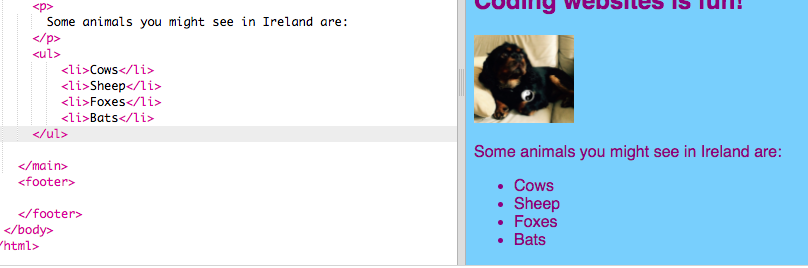
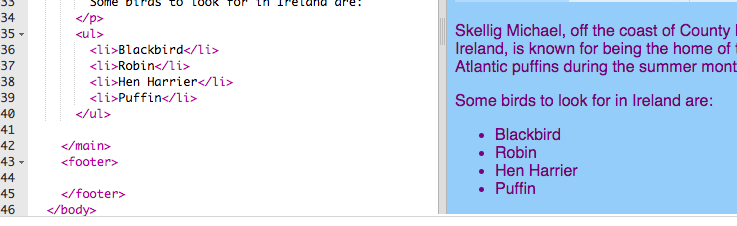
update for se project

diff --git a/en/step_6.md b/en/step_6.md
@@ -5,16 +5,16 @@ Let's add a picture!
 - Go to the tab named `index.html`. Find the `</main>` tag and type the following above it: 
 
 ```html
-    <img src="tito.png" alt="Tito the dog" width="100px" />
+    <img src="RunBird.jpg" alt="A funny looking bird" width="300px" />
 ```
 
 Here's what the result should look like:
     
-![Image code and picture of Tito](images/egImgCodeTito.png)
+![Image code and picture of a bird](images/egImgCode.png)
 
 Notice that this tag has extra bits of information inside it. They are called **attributes**.
 
-- Find the bit of code that says `width="100px"` and try experimenting with different numbers to see if you can figure out what this **attribute** does. Don't delete the letters `px`!
+- Find the bit of code that says `width="300px"` and try experimenting with different numbers to see if you can figure out what this **attribute** does. Don't delete the letters `px`!
 
 --- collapse ---
 
@@ -45,7 +45,7 @@ Once you have a picture, you will **upload** the file to Trinket:
 
 ![The image icon](images/tktImageIconArrow.png)
 
-This is where you can see the pictures that can be used on your website. You should see the picture of Tito the CoderDojo dog.
+This is where you can see the pictures that can be used on your website. You should see the picture of the bird.
 
 - Click the button **Add Image** and then click **Upload**. 
 
@@ -57,7 +57,7 @@ This is where you can see the pictures that can be used on your website. You sho
 
 Your picture is uploaded and ready to use!
 
-- Go to the file index.html and find the `<img>` tag. Change the text `tito.png` so that it exactly matches the name of the file with your picture. Note that it might end in `.jpg` instead of `.png`!
+- Go to the file index.html and find the `<img>` tag. Change the text `RunBird.jpg` so that it exactly matches the name of the file with your picture. Note that it might end in `.png` or something else instead of `.jpg`!
 
 The text you just changed is the **attribute** called `src`. It tells the browser what file to display.
 

diff --git a/en/step_10.md b/en/step_10.md
@@ -18,15 +18,15 @@ You might be wondering why you can't change the name of the `index.html` file. `
 
 --- /collapse ---
 
-- Find the file `blank_page.html` and **copy** and **paste** all of the code from it into your new file.
+- Find the file `template.html` and **copy** and **paste** all of the code from it into your new file.
 
 --- collapse ---
 ---
 title: How to copy and paste
 ---
-- Go the the file blank\_page.html in the code panel \(by clicking on the tab with that name\). Select all of the text in the file by doing the following: Click anywhere on the code, then press and hold the `Ctrl` key \(or if you are using a Mac, the `cmd` key\) and while holding it, press the `A` key at the same time. Notice how all the text becomes highlighted.
+- Go the the file `template.html` in the code panel \(by clicking on the tab with that name\). Select all of the text in the file by doing the following: Click anywhere on the code, then press and hold the `Ctrl` key \(or if you are using a Mac, the `cmd` key\) and while holding it, press the `A` key at the same time. Notice how all the text becomes highlighted.
 
-![All the code selected in the blank_page.html file](images/egBlankPageSelectAll.png)
+![All the code selected in the template.html file](images/egBlankPageSelectAll.png)
 
 - Now, with the text selected, press and hold the `Ctrl` \(or `cmd`\) key again and then while holding it press the `C` key. This **copies** everything that was selected.
 
@@ -55,9 +55,9 @@ Now you need to make links so that you can get to each of your new pages! Let's 
 ```html
     <ul>
         <li><a href="index.html">Home</a></li>
-        <li><a href="attractions.html">Places to visit</a></li>
-        <li><a href="music.html">Music</a></li>
-        <li><a href="food.html">Things to eat</a></li>
+        <li><a href="species.html">Birds to Watch</a></li>
+        <li><a href="feeding.html">Feeding Birds</a></li>
+        <li><a href="tips.html">Birdwatching Tips</a></li>
     </ul>
 ```
 

diff --git a/en/step_4.md b/en/step_4.md
@@ -2,14 +2,14 @@
 
 - In the left-hand panel, the **code panel**, click on the tab that says `index.html`.
 
-- Find the line that says `Welcome to Ireland!` and change it to your own message, being careful not to delete the text `<p>` at the start of the line and `</p>` at the end of the line. You should see your web page updated in the right-hand panel. 
+- Find the line that says `Hello, Friend` and change it to your own message, being careful not to delete the text `<p>` at the start of the line and `</p>` at the end of the line. You should see your web page updated in the right-hand panel. 
 
 ![HTML paragraph example](images/egFirstHtmlCode.png)
 
 - Now on the same line, change the `<p>` and `</p>` to `<h1>` and `</h1>`. Do you notice any change in the result on the right?
 
 ```html
-  <h1>Welcome to Ireland!</h1>
+  <h1>Hello, Friend!</h1>
 ```
 
 --- collapse ---
@@ -33,12 +33,11 @@ Everything in between the `<body>` and `</body>` tags is your web page.
 - Try changing the numbers in your **heading** tags to see the different sizes you get. They can go from `<h1>` all the way up to `<h6>`. Remember to change both the **opening** and **closing** tag so that they match.
 
 
-- Lastly, find the code for the paragraph that says `My website is about Ireland` and change it so that it looks like this:
+- Lastly, find the code for the paragraph that says `Welcome to my website about birds.` and change it so that it looks like this:
 
 ```html
   <p>
-    <em>My website</em> is about <strong>Ireland</strong>. 
-    It is going to have the following pages: Attractions, Music, Food
+    Welcome to <em>my website</em> about <strong>birds</strong>.
   </p>
 ```
 

diff --git a/en/step_12.md b/en/step_12.md
@@ -51,16 +51,16 @@ How about making the menu change to to tell you which page you are on? This part
 
 - Start with the homepage. Go to the `index.html` file. In the list, remove the link tags before and after the word `Home`, so that the **list item** for the homepage is just text in between `<li> </li>` tags, like this: `<li>Home</li>`.
 
-- Now go to each of your other files, and do the same thing, each time removing the link tags for the page you are editing. So, for example, on the `music.html` file, I've removed the link tags in the `Music` list item, and so on.
+- Now go to each of your other files, and do the same thing, each time removing the link tags for the page you are editing. So, for example, on the `species.html` file, I've removed the link tags in the `Birds to Watch` list item, and so on.
 
 ```html
     <header>
         <nav>
             <ul>
-            <li><a href="index.html">Home</a></li>
-            <li><a href="attractions.html">Attractions</a></li>
-            <li>Music</li>
-            <li><a href="food.html">Food</a></li>
+                <li><a href="index.html">Home</a></li>
+                <li>Birds to Watch</li>
+                <li><a href="feeding.html">Feeding Birds</a></li>
+                <li><a href="tips.html">Birdwatching Tips</a></li>
             </ul>
         </nav>
     </header>

diff --git a/en/step_9.md b/en/step_9.md
@@ -22,7 +22,7 @@ The `<a> </a>` tag turns something into a link.
 - In your Trinket, click in between the quotation marks after `href=` and press the `Ctrl` \(or `cmd`\) and `V` keys together to **paste** in the URL you just copied. Your code should look something like this now:
 
 ```html
-  <a href="https://en.wikipedia.org/wiki/Ireland">Click here</a>
+  <a href="https://en.wikipedia.org/wiki/Birdwatching">Click here</a>
 ```
 
 You just created your first link! Click on it to see if it works now.
@@ -40,8 +40,8 @@ Trinket has trouble with some links. You can try URLs for other websites than Wi
 - Try putting a picture in between the `<a> </a>` tags instead of the words `Click here`, like this:
 
 ```html
-  <a href="https://en.wikipedia.org/wiki/Ireland">
-      <img src="tito.png" alt="Tito the dog" width="100px" />
+  <a href="https://en.wikipedia.org/wiki/Birdwatching">
+    <img src="RunBird.jpg" alt="A funny looking bird" width="300px" />
   </a>
 ```
 
@@ -51,7 +51,7 @@ You can put a link into other elements of your web page too, such as in a paragr
 
 ```html
   <p>
-    <a href="https://en.wikipedia.org/wiki/Ireland">Click here</a> to read the Wikipedia page!
+    <a href="https://en.wikipedia.org/wiki/Birdwatching">Click here</a> to read what Wikipedia has to say about birdwatching!
   </p>
 ```
 

diff --git a/en/step_8.md b/en/step_8.md
@@ -6,10 +6,10 @@ On this card you will learn how to turn a list of items, such as "unicorns, robo
 
 ```html
     <ul>
-        <li>Cows</li>
-        <li>Sheep</li>
-        <li>Foxes</li>
-        <li>Bats</li>
+        <li>Blackbird</li>
+        <li>Robin</li>
+        <li>Hen Harrier</li>
+        <li>Puffin</li>
     </ul>
 ```
 
@@ -27,12 +27,12 @@ How about if you wanted a numbered list? It's almost the same, but instead of `u
 
 ```html
     <p>
-        My favourite things to eat and drink in Ireland are:
+        Some of the robin's favourite things to eat are:
     </p>
     <ol>
-        <li>Tea</li>
-        <li>Crisp sandwiches</li>
-        <li>Sausages</li>
+        <li>Beetles</li>
+        <li>Worms</li>
+        <li>Fruit</li>
     </ol>
 ```
 

diff --git a/en/step_11.md b/en/step_11.md
@@ -22,10 +22,10 @@ Many websites have a **navigation** menu to make it easy to get around the pages
     <header>
         <nav>
             <ul>
-            <li><a href="index.html">Home</a></li>
-            <li><a href="attractions.html">Attractions</a></li>
-            <li><a href="music.html">Music</a></li>
-            <li><a href="food.html">Food</a></li>
+                <li><a href="index.html">Home</a></li>
+                <li><a href="species.html">Birds to Watch</a></li>
+                <li><a href="feeding.html">Feeding Birds</a></li>
+                <li><a href="tips.html">Birdwatching Tips</a></li>
             </ul>
         </nav>
     </header>

diff --git a/en/step_7.md b/en/step_7.md
@@ -4,7 +4,7 @@ YouTube provides an easy way to **embed** \(or put\) videos from it onto your we
 
 - Find a video on YouTube that you want to show on your website. 
 
-- Look for the **Share** button and click it. Select the option **Embed**.
+- Look for the **Share** button and click it. Select the option **EMBED**.
 
 You will see a text box with all the text selected \(if you accidentally unselect the text, you can select it all again by clicking on it and pressing the `Ctrl` \(or `cmd` on a Mac\) and `A` keys together on your keyboard\). 
 

diff --git a/en/step_5.md b/en/step_5.md
@@ -63,6 +63,8 @@ The `color` property is always for text. Here, you are setting the colour of all
   }
 ```
 
++ If you have't got any `<h1>` headings on your HTML page, add one to see how it looks. 
+
 Your heading should be orange now, with the paragraph purple as before. 
 
 ![Result of new CSS code](images/egCssColorsFonts.png)
